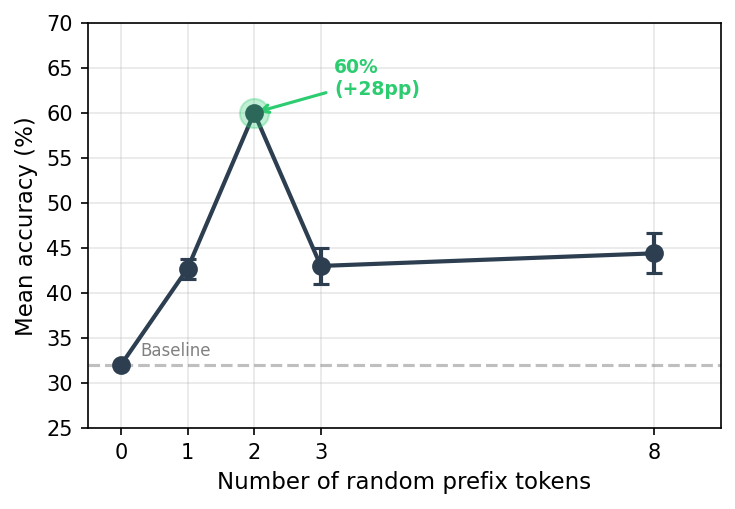
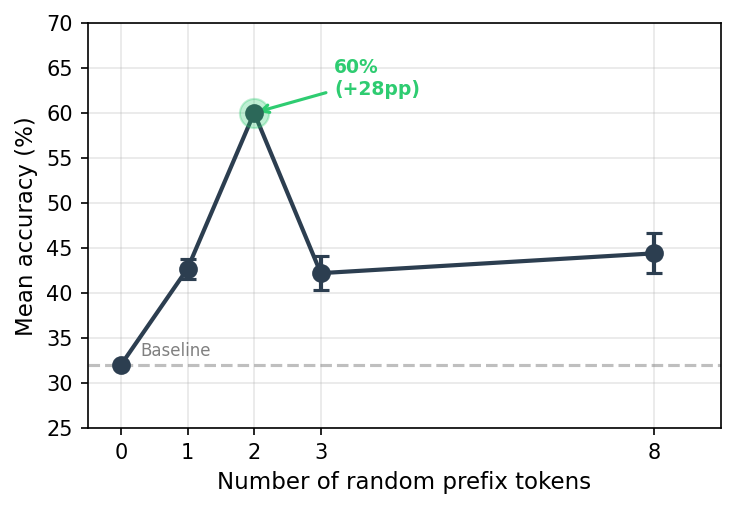
Update paper and figures with N9=9/25 (36%): SD=1.42, p=0.55
Committed by Devansh

Changed region(s): [[0.419, 0.4715, 0.8381, 0.5894], [0.3592, 0.2652, 0.419, 0.4715]]

diff --git a/paper/main.tex b/paper/main.tex
@@ -43,7 +43,7 @@ At the two-token optimum, all random directions solve exactly the same
 number of tasks ($p = 0.031$ vs.\ heterogeneous iid null) but
 \emph{different task subsets}, enabling 88\% oracle coverage from just
 three perturbation runs. At three tokens, early equalization did not
-persist; by eight directions, variance was indistinguishable from iid.
+persist; by nine directions, variance was indistinguishable from iid.
 These results establish embedding-space
 perturbation as a training-free intervention that activates latent
 reasoning capabilities in small language models.
@@ -85,7 +85,7 @@ tasks are:
     exactly the same number of tasks (std = 0.00, $p = 0.031$ vs.\
     heterogeneous iid) but solve \emph{different} subsets.
     This equalization does not persist at three tokens, where
-    variance becomes indistinguishable from independence ($p = 0.50$).
+    variance becomes indistinguishable from independence ($p = 0.55$).
 
     \item \textbf{Think-mode gating.} Any perturbation activates
     Qwen3's reasoning mode (16\% $\to$ 100\%), but random noise
@@ -202,7 +202,7 @@ the full response (up to 2000 characters) for independent verification.
 0 & 32.0\% & --- & 1 & --- \\
 1 & 42.7\% & 1.9\% & 3 & +10.7pp \\
 \textbf{2} & \textbf{60.0\%} & \textbf{0.0\%} & \textbf{3} & \textbf{+28.0pp} \\
-3 & 43.0\% & 5.6\% & 8 & +11.0pp \\
+3 & 42.2\% & 5.7\% & 9 & +10.2pp \\
 8 & 44.4\% & 7.0\% & 10 & +12.4pp \\
 \bottomrule
 \end{tabular}
@@ -265,8 +265,8 @@ At the two-token optimum, all three random directions solve exactly the
 same number of tasks (15/25, std = 0.00, $p = 0.031$ vs.\ heterogeneous
 iid null) but solve \emph{different task subsets}. At three tokens,
 early equalization observed over three directions did not
-persist; by eight directions, variance (std = 1.39) was
-indistinguishable from the heterogeneous iid expectation ($p = 0.50$).
+persist; by nine directions, variance (std = 1.42) was
+indistinguishable from the heterogeneous iid expectation ($p = 0.55$).
 At eight tokens, variance is large (std = 1.76) and near the iid
 expected value (2.21). We therefore treat equalization as a candidate
 regime specific to two tokens, pending confirmation at $n = 10$
@@ -295,7 +295,7 @@ may solve ``frozen'' tasks or fail ``unanimous'' ones.
 \midrule
 1-tok & 6.0 & 8.0 & 11.0 & 10.7/25 \\
 \textbf{2-tok} & \textbf{9.0} & \textbf{3.0} & \textbf{13.0} & \textbf{15.0/25} \\
-3-tok$^\dagger$ & 7.2 & 10.5 & 7.3 & 10.8/25 \\
+3-tok$^\dagger$ & 7.0 & 10.8 & 7.2 & 10.6/25 \\
 8-tok$^\dagger$ & 6.0 & 7.9 & 11.2 & 11.1/25 \\
 \bottomrule
 \end{tabular}
@@ -310,7 +310,7 @@ may solve ``frozen'' tasks or fail ``unanimous'' ones.
 \midrule
 1-tok & 3 & 6 & 8 & 11 & 10.7 & 0.47 & 0.23 \\
 \textbf{2-tok} & \textbf{3} & \textbf{9} & \textbf{3} & \textbf{13} & \textbf{15.0} & \textbf{0.00} & \textbf{0.031} \\
-3-tok & 8 & 5 & 7 & 13 & 10.8 & 1.39 & 0.497 \\
+3-tok & 9 & 5 & 7 & 13 & 10.6 & 1.42 & 0.550 \\
 8-tok & 10 & 3 & 2 & 20 & 11.1 & 1.76 & $\sim$0.15 \\
 \bottomrule
 \end{tabular}
@@ -322,7 +322,7 @@ $\binom{n}{3}$ subsets (35 and 120 combinations respectively).
 \textbf{Panel B}: Full observed directions with Monte Carlo equalization
 $p$-values. Two-token is the only condition showing significant variance
 suppression ($p = 0.031$); three-token is indistinguishable from
-iid ($p = 0.50$).}
+iid ($p = 0.55$).}
 \label{tab:equalization}
 \end{table}
 
@@ -443,8 +443,8 @@ The two-token optimum emerges because it maximizes the sensitive set
 (13 tasks) while maintaining a high per-direction solve rate (0.462),
 yielding the highest per-direction accuracy (15/25 = 60\%).
 
-At three tokens, variance (std = 1.39 from 8 directions) is
-indistinguishable from the heterogeneous iid null ($p = 0.50$),
+At three tokens, variance (std = 1.42 from 9 directions) is
+indistinguishable from the heterogeneous iid null ($p = 0.55$),
 so equalization does not extend beyond two tokens. At eight tokens,
 variance is large (std = 1.76) and near the iid expectation (2.21):
 direction affects both \emph{which} and \emph{how many} tasks are
@@ -528,7 +528,7 @@ At the two-token optimum, random directions solve the same number of
 tasks (std = 0.00, $p = 0.031$ vs.\ iid null) but different subsets,
 enabling efficient oracle coverage (88\% from 3 runs). This
 equalization is specific to two tokens; at three tokens, variance
-is indistinguishable from independence ($p = 0.50$).
+is indistinguishable from independence ($p = 0.55$).
 These findings suggest that small language models possess latent
 reasoning capabilities that can be unlocked through minimal,
 training-free embedding-space perturbation.

diff --git a/experiments/plot_oracle_coverage.py b/experiments/plot_oracle_coverage.py
@@ -40,7 +40,7 @@ def main():
     # 2-tok
     s2 = build_matrix_from_json(EXP_DIR / 'sensitivity_sweet_spot_random_noise_t2_results.json')
 
-    # 3-tok from log (N1-N8)
+    # 3-tok from log (N1-N9)
     s3 = np.array([
         [1,1,0,1,0,0,1,0,0,0,1,1,0,0,0,1,0,1,0,1,1,0,0,0,1],
         [1,1,0,1,0,0,1,0,0,0,1,1,0,0,0,0,1,1,0,0,1,0,0,1,1],
@@ -49,6 +49,7 @@ def main():
         [1,1,0,1,0,0,1,1,0,0,1,1,0,0,0,1,1,1,1,0,1,0,0,0,1],
         [1,1,0,0,0,0,1,0,0,1,1,1,0,0,0,0,0,1,1,1,1,0,1,0,1],
         [1,1,0,0,0,0,0,0,0,0,1,1,0,0,0,1,0,1,0,1,1,0,0,0,1],
+        [1,1,0,0,0,0,0,0,0,0,0,1,0,0,0,1,1,1,0,1,1,0,0,0,1],
         [1,1,0,0,0,0,0,0,0,0,0,1,0,0,0,1,1,1,0,1,1,0,0,0,1],
     ])
 
@@ -71,7 +72,7 @@ def main():
     ax.annotate('88%', xy=(3, 88), xytext=(3.5, 91),
                 fontsize=9, color='#2ecc71', fontweight='bold',
                 arrowprops=dict(arrowstyle='->', color='#2ecc71', lw=1.5))
-    ax.annotate('72%', xy=(8, 72), xytext=(8.5, 67),
+    ax.annotate('72%', xy=(9, 72), xytext=(9.5, 67),
                 fontsize=9, color='#e74c3c', fontweight='bold',
                 arrowprops=dict(arrowstyle='->', color='#e74c3c', lw=1.5))
     ax.annotate('92%', xy=(10, 92), xytext=(9, 95),

diff --git a/experiments/plot_dose_response.py b/experiments/plot_dose_response.py
@@ -11,9 +11,9 @@ EXP_DIR = Path(__file__).parent
 def main():
     # Data from experiments
     tokens = [0, 1, 2, 3, 8]
-    mean_acc = [32.0, 42.7, 60.0, 43.0, 44.4]
-    std_acc = [0, 1.9, 0.0, 5.6, 7.0]
-    n_lat = [1, 3, 3, 8, 10]
+    mean_acc = [32.0, 42.7, 60.0, 42.2, 44.4]
+    std_acc = [0, 1.9, 0.0, 5.7, 7.0]
+    n_lat = [1, 3, 3, 9, 10]
 
     # Standard errors (std / sqrt(n))
     se = [s / np.sqrt(n) if n > 1 else 0 for s, n in zip(std_acc, n_lat)]

diff --git a/experiments/analysis_summary.md b/experiments/analysis_summary.md
@@ -8,7 +8,7 @@ Date: 2026-03-05 (Tesla Workflow Deep Analysis)
 | 0 | baseline | 32.0% | - | - | - |
 | 1 | random_noise | 42.7% | 1.9% | 3 | +10.7pp |
 | **2** | **random_noise** | **60.0%** | **0.0%** | **3** | **+28.0pp** |
-| 3 | random_noise | 44.0% | 5.0% | 7 (RUNNING 10) | +12.0pp |
+| 3 | random_noise | 42.2% | 5.7% | 9 (N10 running) | +10.2pp |
 | 8 | random_noise | 44.0% | 2.8% | 4 | +12.0pp |
 | 8 | latent_projected | 44.4% | 7.0% | 10 | +12.4pp |
 | 8 | zero_embedding | 36.0% | 0.0% | 3 | +4.0pp |
@@ -495,13 +495,14 @@ This is NOT explained by higher per-latent accuracy alone (60% vs 44%) —
 - N6 = 12/25 (48%): solved two frozen tasks (nest_009, nest_022)
 - **N7 = 9/25 (36%): lowest direction yet, nest_006 (was unanimous) failed**
 - **N8 = 9/25 (36%): nest_010 fell from unanimous (7/7→7/8)**
-- **Solve counts N1-N8: [11, 11, 11, 10, 13, 12, 9, 9], mean=10.8, SD=1.39**
-- **Expected iid SD = 1.41, p = 0.497** — AT THE MEDIAN OF IID
-- Categories (N1-N8): 5 unanimous, 7 frozen, 13 sensitive
+- **N9 = 9/25 (36%): identical solve pattern to N8**
+- **Solve counts N1-N9: [11, 11, 11, 10, 13, 12, 9, 9, 9], mean=10.6, SD=1.42**
+- **Expected iid SD = 1.41, p = 0.550** — AT THE MEDIAN OF IID
+- Categories (N1-N9): 5 unanimous, 7 frozen, 13 sensitive (unchanged from N8)
 - Category breaches: nest_007(N5), nest_009(N6), nest_022(N6) escaped frozen;
   nest_006(N7), nest_010(N8) fell from unanimous
 - Equalization is DEAD at 3-tok (variance matches iid exactly)
-- N9-N10 in progress (GPU-contended, ~120s/task)
+- N10 in progress (GPU-contended, ~120s/task)
 
 ### 3-tok vs 2-tok Oracle Comparison (2026-03-05f)
 
